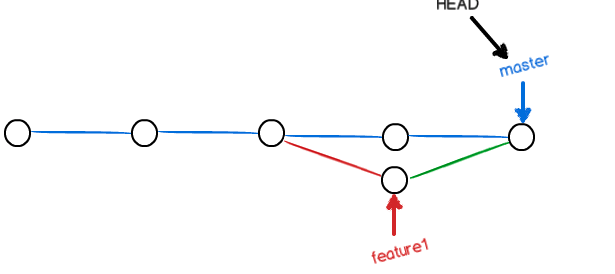
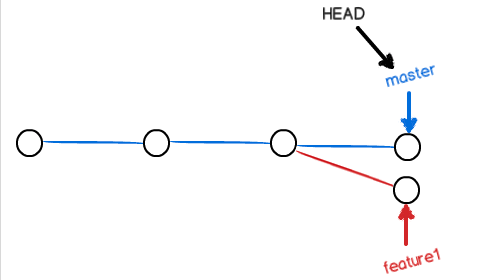
git merge 文档输出完成

diff --git a/README.md b/README.md
@@ -6,7 +6,7 @@
 
 **git merge** 命令合并指定分支和当前分支
 
-通常合并（merge）分支时，会采用Fast forward模式，如下图。在这种模式下，删除分支后，会丢掉合并该分支的信息（类似于无痕？？）。
+通常合并（merge）分支时，会采用Fast forward模式，如下图。在这种模式下，删除分支后，会丢掉合并该分支的信息。
 
 
 <u>合并前</u>
@@ -14,6 +14,7 @@
 
 <u>*合并后*</u>
 ![](assets/2.png)
+
 
 测试步骤：先新建dev分支，并修改reademe文件，然后提交commit，然后切换到master分支，进行merge
 
@@ -47,17 +48,18 @@ Date:   Thu Dec 3 17:24:42 2020 +0800
 
 ```
 
+由下图可以看到当分支采用merge --ff的方式合并以后，就会合并到一个分支上，此时在dev上rebase就不会出现commit，但如果dev分支没有和采用fast-forward方式合并到一个分支，git merge就会出现commit，详见<https://git-scm.com/docs/git-merge>
+
 ```js
 
-commit 249d7720c19ead3adf01d89fbcaaea20eeb321fe (origin/main, origin/HEAD)
-PM80303015:git- 80303015$ 
-PM80303015:git- 80303015$ git log --graph --decorate --oneline --simplify-by-decoration --all
-*   10d3f57 (HEAD -> main) 测试merge -ff命令Merge branch 'dev' into main
+* f0c8ae2 (HEAD -> dev) dev 修改git笔记
+* b221a2b (origin/main, origin/HEAD, main) 增加分支管理图
+*   10d3f57 测试merge -ff命令Merge branch 'dev' into main
 |\  
-| * 475b2c7 (origin/dev, dev) dev分支提交测试-ff命令代码
-* | 249d772 (origin/main, origin/HEAD) 修改git笔记
-|/  
-* 0ef54cd Initial commit
+| * 475b2c7 (origin/dev) dev分支提交测试-ff命令代码
+* | c709589 测试git merge 命令
+|\| 
+| * 012415d 修改git学习笔记
 
 ```
 
@@ -94,9 +96,30 @@ PM80303015:git- 80303015$ git log --graph --decorate --oneline --simplify-by-dec
     
     修改git学习笔记
 
+由下图可见，git merge --no-ff 仍然会保存分支信息，每次commit都是在自己的分支上进行的commit操作
 
 ```js
 
+* f0c8ae2 (HEAD -> dev) dev 修改git笔记
+* b221a2b (origin/main, origin/HEAD, main) 增加分支管理图
+*   10d3f57 测试merge -ff命令Merge branch 'dev' into main
+|\  
+| * 475b2c7 (origin/dev) dev分支提交测试-ff命令代码
+* | c709589 测试git merge 命令
+|\| 
+| * 012415d 修改git学习笔记
+* | 249d772 修改git笔记
+* | e58df6d 修改git笔记
+* | f925205 merge with no-ff
+|\| 
+| * 9fb785d 修改git学习笔记
+* | e33c054 测试merge --no--ff
+|\| 
+| * 76bc6e4 修改git学习笔记
+* | 3cdfc4d 测试--no--ff命令
+|/  
+* db01965 initial
+* 0ef54cd Initial commit
 
 ```
 
